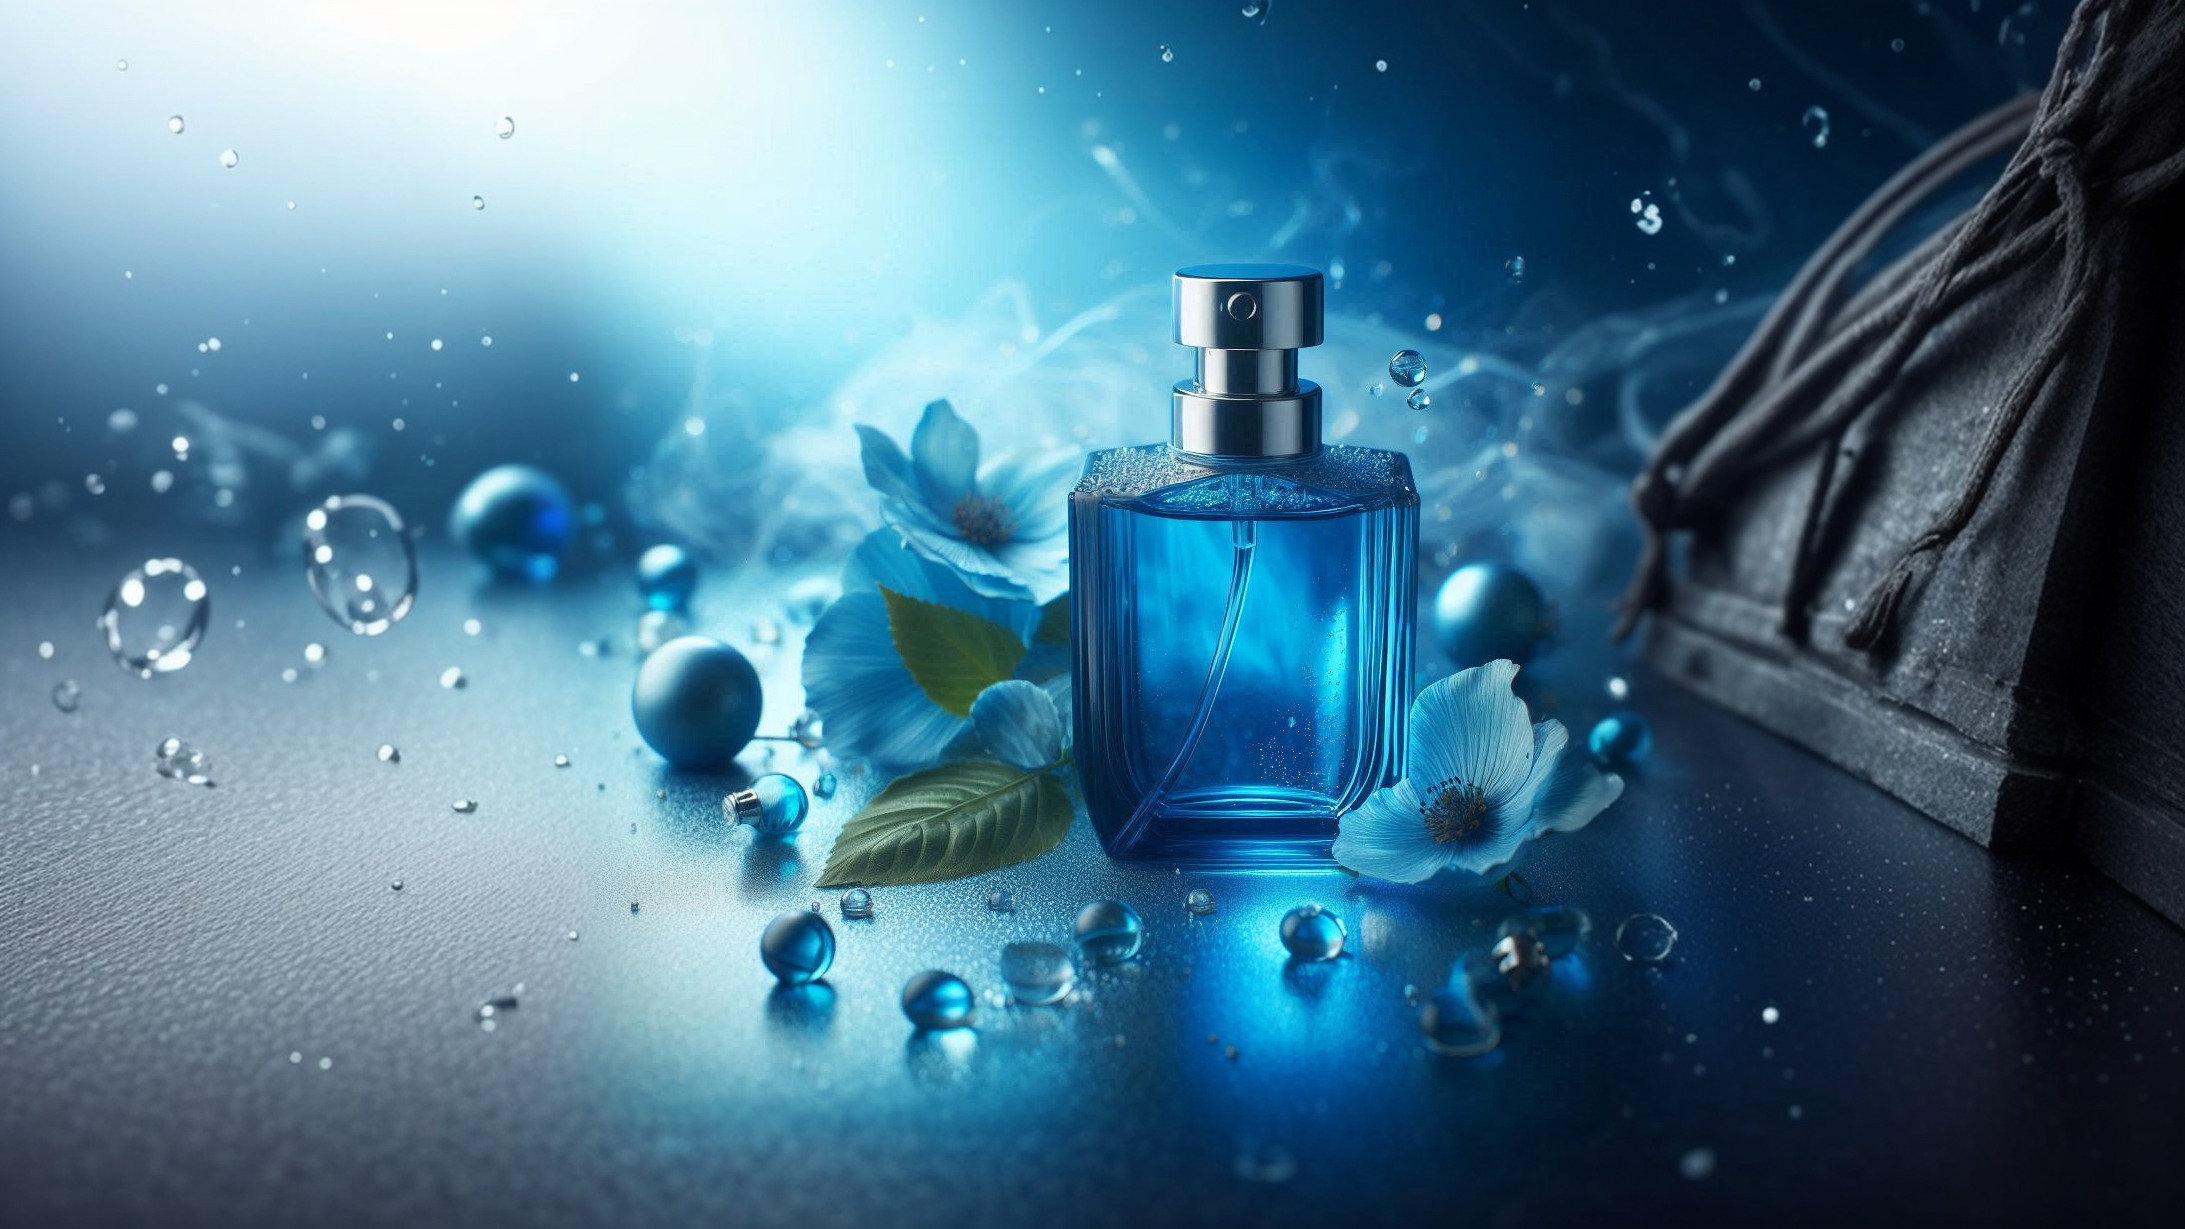
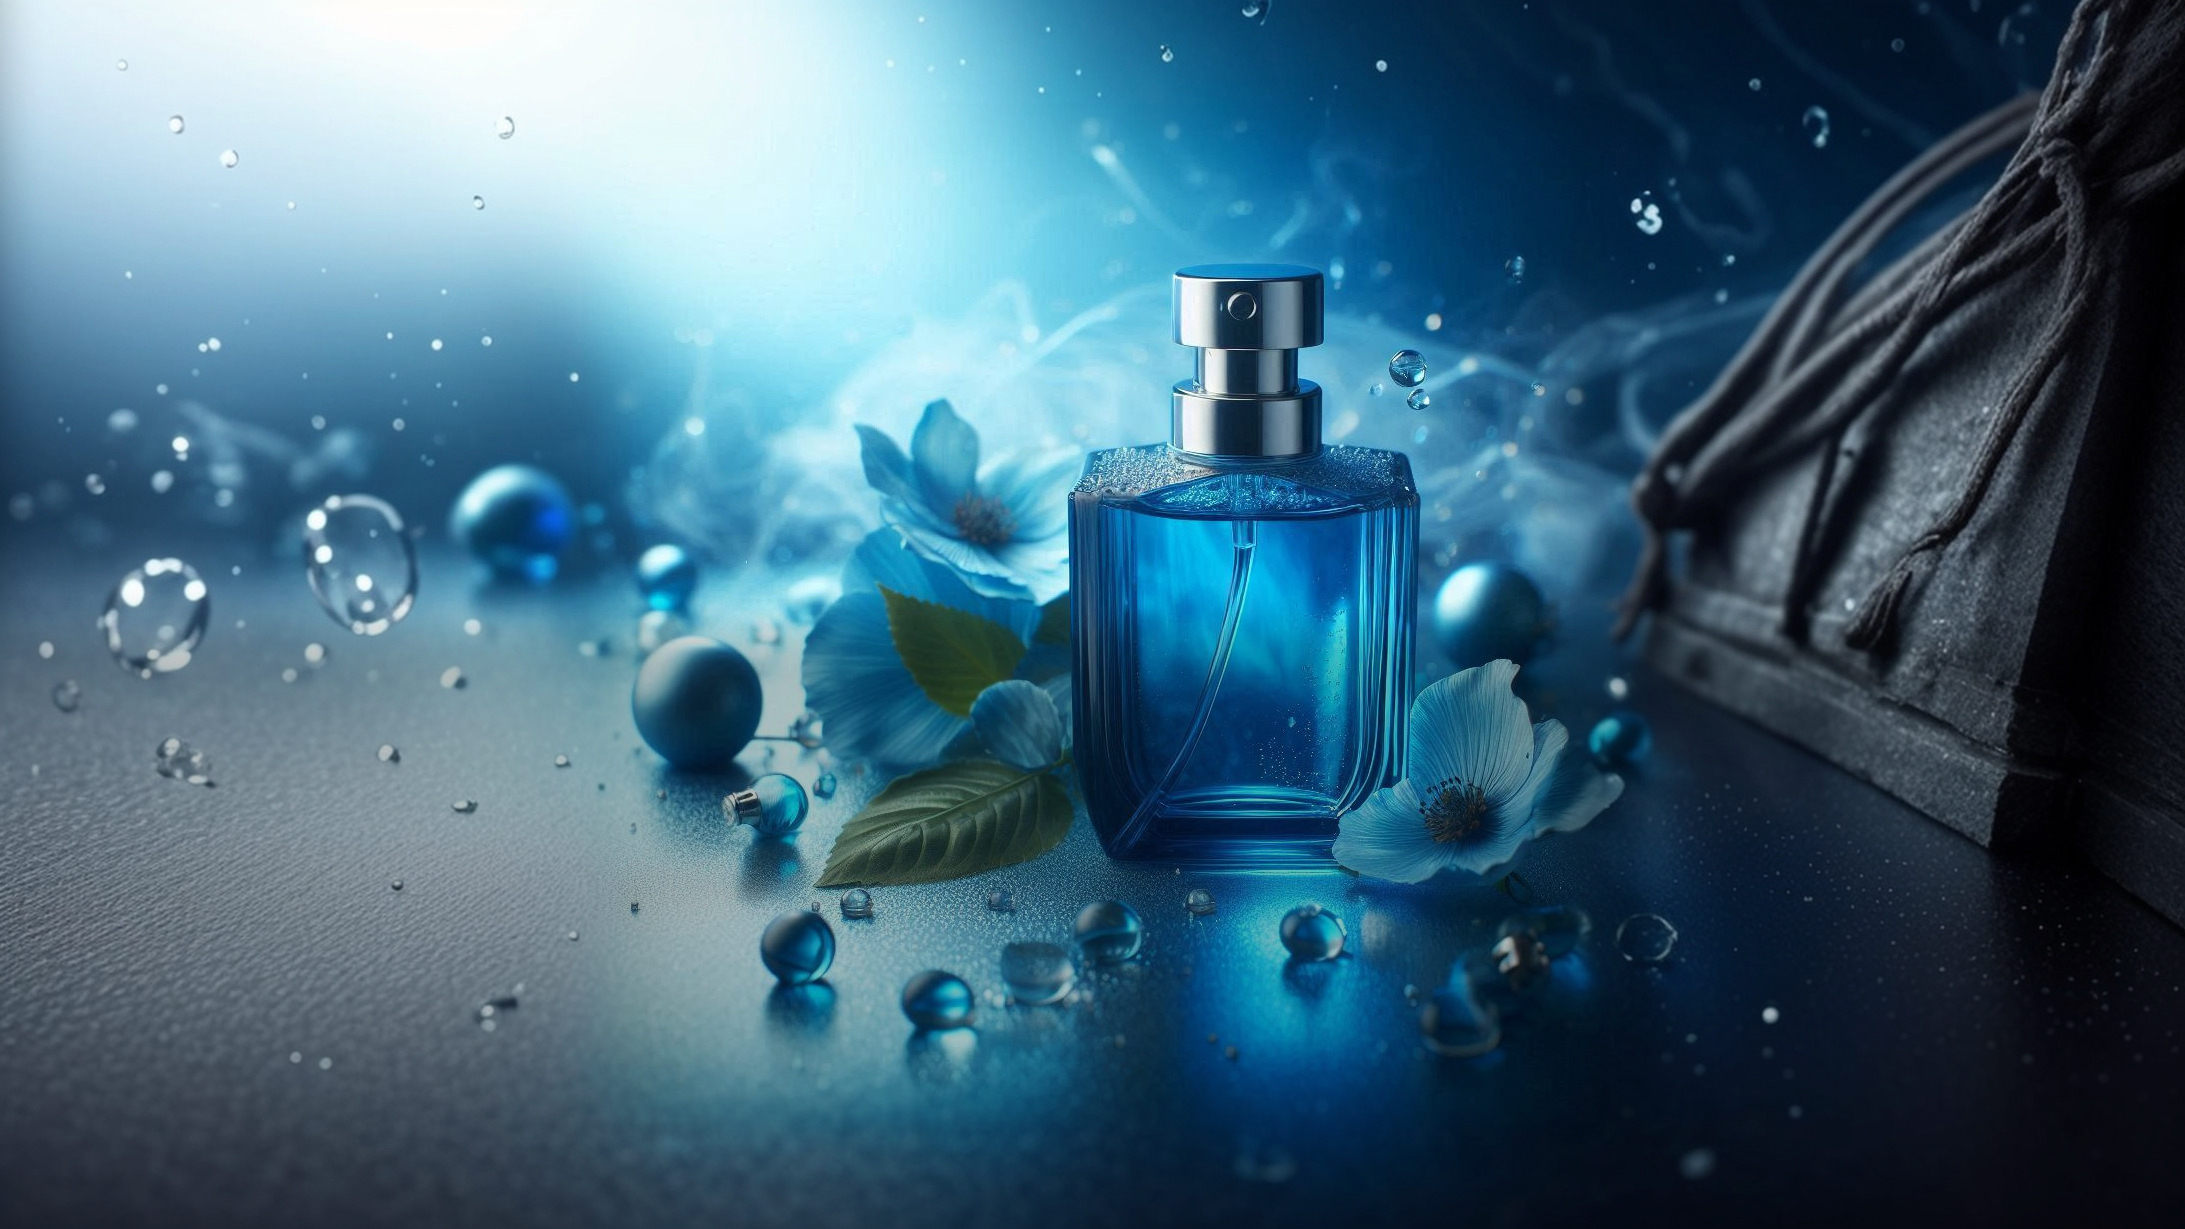
area de colecao de inverno concluida

Changed region(s): [[0.0, 0.4947, 0.778, 1.0], [0.778, 0.5256, 0.9336, 0.6802], [0.7469, 0.7421, 0.778, 0.773]]

diff --git a/src/Componentes/Colecao_Inverno/ColecaoInverno.jsx b/src/Componentes/Colecao_Inverno/ColecaoInverno.jsx
@@ -1,0 +1,27 @@
+import React from "react";
+import styles from "./ColecaoInverno.module.css";
+import Winter from "../../assets/img/winter-collection.jpg";
+
+const ColecaoInverno = () => {
+  return (
+    <section className={`${styles.winterBG}`}>
+      <a href="" className={`${styles.teste}`}>
+        <img
+          src={Winter}
+          className={``}
+          alt="Coleção de inverno"
+        />
+        <div className={`${styles.content} container`}>
+          <h3 className={`${styles.title} font-1-xxl`}>Conheça a coleção de inverno</h3>
+          <p className={`${styles.desc} font-1-l`}>
+            A coleção de perfumes de inverno traz fragrâncias intensas e
+            envolventes, perfeitas para os dias frios.
+          </p>
+          <button className={`${styles.btn}`}>Ver mais</button>
+        </div>
+      </a>
+    </section>
+  );
+};
+
+export default ColecaoInverno;

diff --git a/src/Componentes/Colecao_Inverno/ColecaoInverno.module.css b/src/Componentes/Colecao_Inverno/ColecaoInverno.module.css
@@ -1,0 +1,56 @@
+.teste img {
+  height: 620px;
+  width: 100%;
+  object-fit: cover;
+}
+
+.winterBG {
+  position: relative;
+}
+
+.content {
+  bottom: 40px;
+  position: absolute;
+  z-index: 999;
+}
+
+.title {
+  padding-bottom: 10px;
+  font-weight: bold;
+}
+
+.desc {
+  padding-bottom: 20px;
+  max-width: 48ch;
+}
+
+.btn {
+  height: 40px;
+  background: none;
+  width: 200px;
+  border: 2px solid var(--color-p7);
+  color: var(--color-p7);
+  border-radius: 20px;
+  cursor: pointer;
+}
+
+.btn:hover {
+  background: #001629;
+  border: solid 2px #001629;
+  transition: .2s;
+}
+
+@media (max-width: 900px) {
+  .title {
+    font-size: 2rem;
+  }
+  .desc {
+    font-size: 1.125rem;
+  }
+}
+
+@media (max-width: 500px) {
+  .content {
+    padding: 10px;
+  }
+}

diff --git a/src/App.jsx b/src/App.jsx
@@ -6,6 +6,7 @@ import "./Componentes/Global/Fontes.css"
 import Introducao from './Componentes/introducao/Introducao'
 import Colecao from './Componentes/Colecao/colecao'
 import Descontos from './Componentes/Descontos/Descontos'
+import ColecaoInverno from './Componentes/Colecao_Inverno/ColecaoInverno'
 
 
 const App = () => {
@@ -15,6 +16,7 @@ const App = () => {
       <Introducao />
       <Colecao />
       <Descontos />
+      <ColecaoInverno />
     </div>
   )
 }

diff --git a/src/Componentes/Colecao/Colecao.module.css b/src/Componentes/Colecao/Colecao.module.css
@@ -8,7 +8,7 @@
 
 .gridColumns {
   grid-template-columns: max-content max-content max-content;
-  gap: 80px 20px !important;
+  gap: 80px 40px !important;
   justify-content: center;
 }
 

diff --git a/src/Componentes/Descontos/Descontos.module.css b/src/Componentes/Descontos/Descontos.module.css
@@ -2,6 +2,10 @@
   text-align: center;
 }
 
+.descontos {
+  margin-bottom: 120px;
+}
+
 .gridColumns {
   grid-template-columns: 1fr 1fr 1fr 1fr 1fr;
 }
